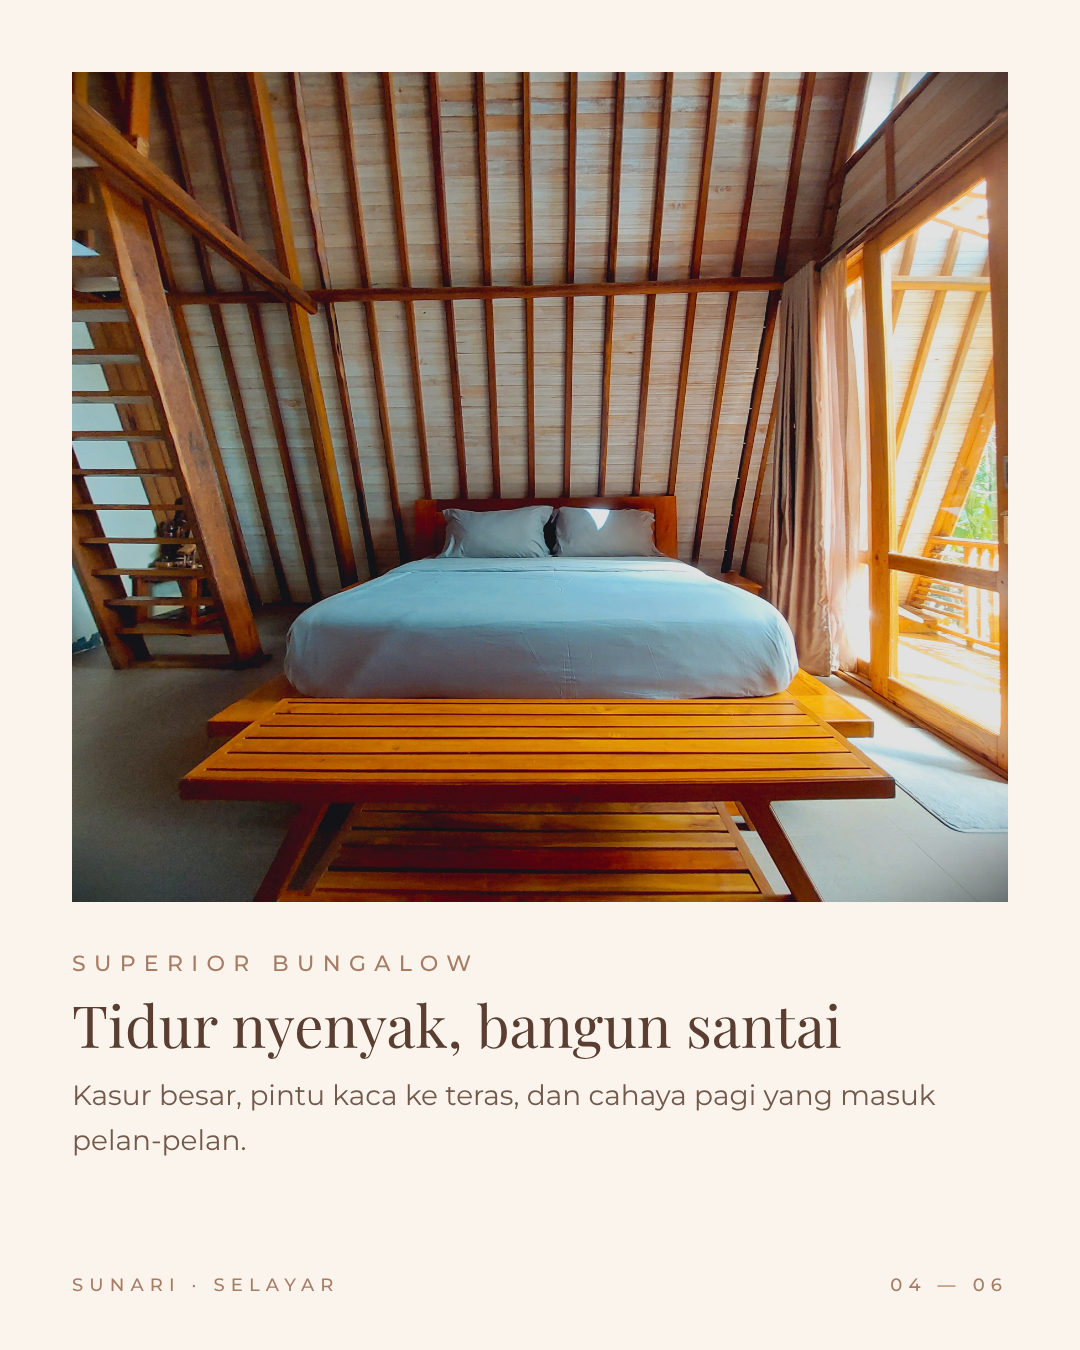
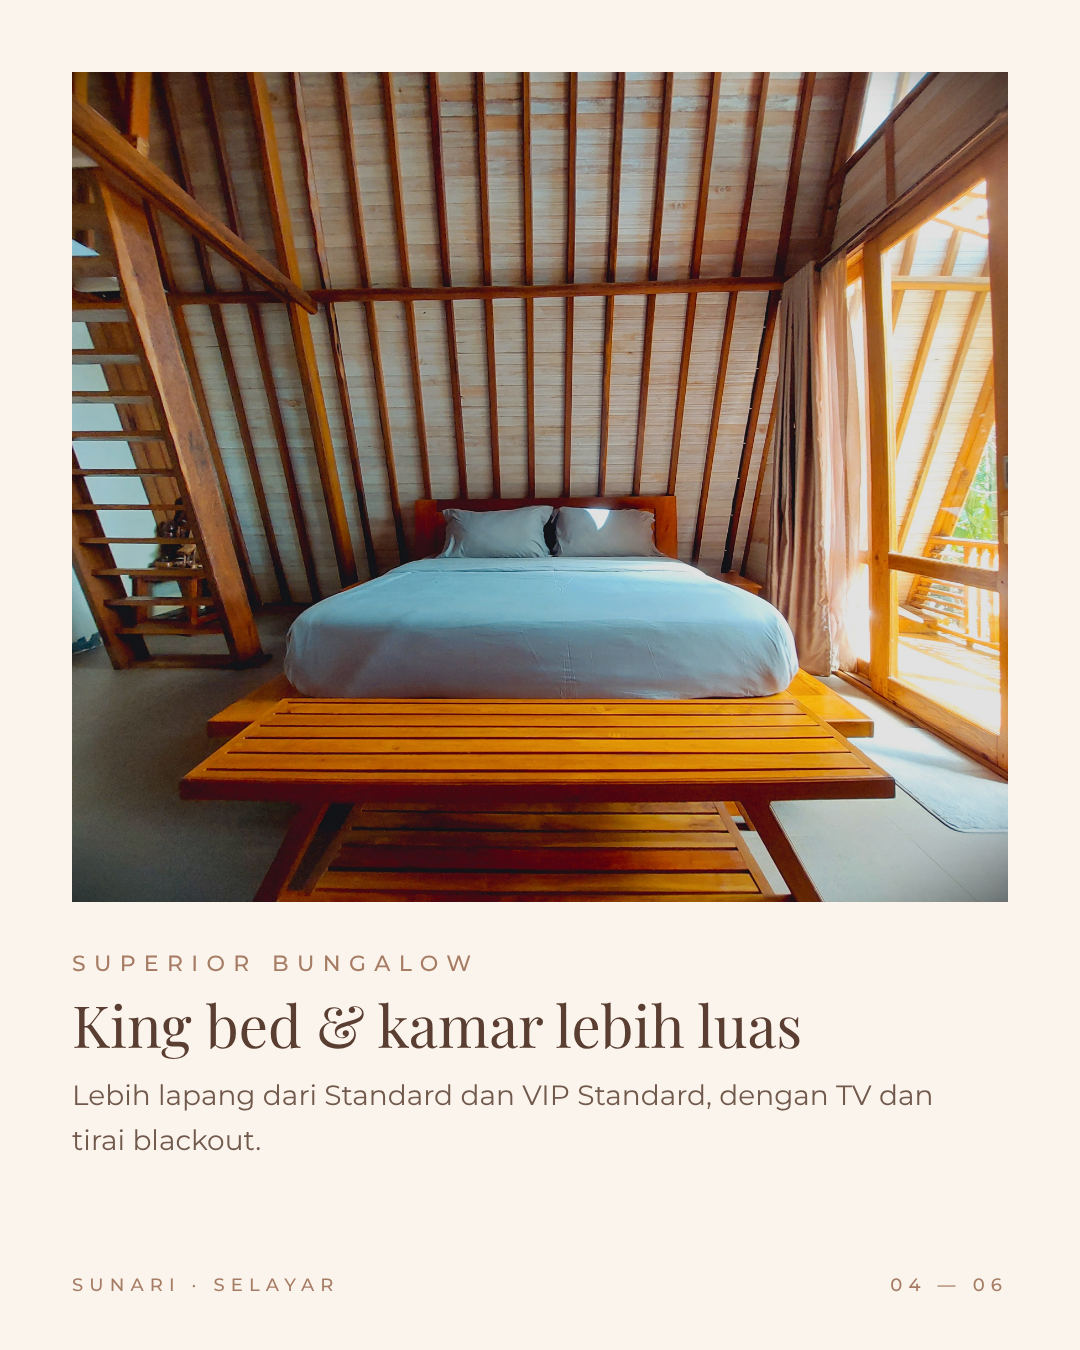
Update Superior Bungalow details (king bed, TV, larger room, breakfast, amenities)
Claude-Session: https://claude.ai/code/session_01AizaiBQtsTmWERPRfEgVV4

Changed region(s): [[0.0611, 0.7467, 0.7944, 0.8711], [0.7944, 0.8089, 0.8556, 0.84]]

diff --git a/social/kit.html b/social/kit.html
@@ -156,7 +156,7 @@ body{background:#ddd6cc;font-family:Montserrat,sans-serif;padding:40px;display:f
 </div>
 <div class="tpl" id="sb-4">
   <img class="ph" src="../assets/photos/superior-bungalow/05-kamar-tempat-tidur.jpg" style="object-position:50% 50%" alt="">
-  <div class="txt"><div class="caps">Superior Bungalow</div><h2>Tidur nyenyak, bangun santai</h2><p>Kasur besar, pintu kaca ke teras, dan cahaya pagi yang masuk pelan-pelan.</p></div>
+  <div class="txt"><div class="caps">Superior Bungalow</div><h2>King bed &amp; kamar lebih luas</h2><p>Lebih lapang dari Standard dan VIP Standard, dengan TV dan tirai blackout.</p></div>
   <div class="foot"><span class="caps">SunaRi · Selayar</span><span class="caps">04 — 06</span></div>
 </div>
 <div class="tpl" id="sb-5">
@@ -167,7 +167,7 @@ body{background:#ddd6cc;font-family:Montserrat,sans-serif;padding:40px;display:f
 <div class="tpl facts" id="sb-6">
   <img class="mark" src="../assets/mark-sunari-driftwood.svg" alt="">
   <div class="head center"><div class="caps">Superior Bungalow</div><h2>Yang kamu <span class="it">dapatkan</span></h2></div>
-  <ul><li>Untuk 2 orang, maks. 3 dengan extra bed</li><li>Bungalow kayu A-frame dengan loteng</li><li>Teras pribadi dengan kursi santai</li><li>Kamar mandi semi-outdoor, rain shower</li><li>AC, TV, perlengkapan kopi &amp; teh</li><li>Wi-Fi &amp; beberapa langkah ke pantai</li></ul>
+  <ul><li>Untuk 2 orang, maks. 3 dengan extra bed</li><li>Termasuk sarapan</li><li>King bed, TV, kamar lebih luas</li><li>Kamar mandi semi-outdoor, rain shower</li><li>AC, Wi-Fi, kopi/teh &amp; pemanas air</li><li>Teras pribadi dengan kursi santai</li></ul>
   <div class="cta"><div class="caps">Info &amp; Reservasi</div><div class="wa"><span>WhatsApp</span> 0821-8903-3044</div></div>
   <div class="foot"><span class="caps">SunaRi · Selayar</span><span class="caps">06 — 06</span></div>
 </div>

diff --git a/social/build_kit.py b/social/build_kit.py
@@ -14,9 +14,9 @@ ROOMS = [
        tagline="Rumah kayu di antara pohon kelapa", cover="02-eksterior-depan.jpg", cover_pos="50% 30%",
        slides=[("03-teras.jpg","50% 50%","Teras kayu pribadi","Tempat terbaik untuk kopi pagi dan obrolan sore, dengan pohon kelapa sebagai pemandangannya."),
                ("04-kamar-loteng.jpg","50% 50%","Atap A-frame & loteng","Langit-langit kayu menjulang dengan loteng di atasnya. Lapang, sejuk, dan hangat."),
-               ("05-kamar-tempat-tidur.jpg","50% 50%","Tidur nyenyak, bangun santai","Kasur besar, pintu kaca ke teras, dan cahaya pagi yang masuk pelan-pelan."),
+               ("05-kamar-tempat-tidur.jpg","50% 50%","King bed & kamar lebih luas","Lebih lapang dari Standard dan VIP Standard, dengan TV dan tirai blackout."),
                ("10-kamar-mandi-taman.jpg","50% 60%","Kamar mandi semi-outdoor","Mandi di bawah rain shower, ditemani taman hijau dan langit terbuka.")],
-       facts=["Untuk 2 orang, maks. 3 dengan extra bed","Bungalow kayu A-frame dengan loteng","Teras pribadi dengan kursi santai","Kamar mandi semi-outdoor, rain shower","AC, TV, perlengkapan kopi & teh","Wi-Fi & beberapa langkah ke pantai"]),
+       facts=["Untuk 2 orang, maks. 3 dengan extra bed","Termasuk sarapan","King bed, TV, kamar lebih luas","Kamar mandi semi-outdoor, rain shower","AC, Wi-Fi, kopi/teh & pemanas air","Teras pribadi dengan kursi santai"]),
   dict(prefix="st", name="Standard Bungalow", photos="standard-bungalow",
        tagline="Pagi menghadap laut Selayar", cover="01-teras-view-laut.jpg", cover_pos="50% 60%",
        slides=[("03-kamar-depan.jpg","50% 60%","Queen bed di rumah kayu","Dinding kayu, atap tinggi, tirai blackout, serta bantal dan selimut tambahan."),

diff --git a/ota/DESKRIPSI_OTA_GOOGLE.md b/ota/DESKRIPSI_OTA_GOOGLE.md
@@ -81,13 +81,13 @@ Paid transfers are available from H. Aroeppala Airport and the ferry port. The r
 ---
 
 ### 3. Superior Bungalow
-**Kapasitas:** 2 dewasa (maks. 3 dengan 1 extra bed) · **Tempat tidur:** 1 double/queen *(sesuaikan)* · **Pemandangan:** taman tropis
+**Kapasitas:** 2 dewasa (maks. 3 dengan 1 extra bed, berbayar) · **Tempat tidur:** 1 king bed · **Pemandangan:** laut atau taman (sesuai unit) · **Lebih luas dari Standard & VIP Standard** · **Termasuk sarapan**
 
-**ID:** Bungalow kayu beratap A-frame di antara pohon kelapa, dengan loteng di bawah langit-langit kayu yang menjulang. Teras kayu pribadi dengan kursi santai cocok untuk kopi pagi dan obrolan sore. Keistimewaannya adalah kamar mandi semi-outdoor dengan rain shower, dikelilingi taman hijau dan langit terbuka. Dilengkapi AC, TV, dan perlengkapan kopi/teh.
+**ID:** Bungalow kayu beratap A-frame di antara pohon kelapa, dengan loteng di bawah langit-langit kayu yang menjulang. Kamarnya lebih luas dibanding Standard dan VIP Standard Bungalow, dilengkapi king bed, TV, AC, Wi-Fi, set kopi/teh dengan pemanas air, meja kerja/rias, tirai blackout, serta bantal dan selimut tambahan. Keistimewaannya adalah kamar mandi semi-outdoor dengan rain shower, dikelilingi taman hijau dan langit terbuka, lengkap dengan perlengkapan mandi dan handuk bersih untuk setiap tamu. Teras kayu pribadi dengan kursi santai menghadap laut atau taman. Sudah termasuk sarapan. Layanan setrika tersedia atas permintaan.
 
-**EN:** A wooden A-frame bungalow nestled among coconut palms, with a loft under the soaring timber ceiling. The private wooden terrace with lounge chairs is perfect for morning coffee and evening chats. The highlight is a semi-outdoor bathroom with rain shower, surrounded by a tropical garden and open sky. Air conditioning, TV and coffee/tea facilities included.
+**EN:** A wooden A-frame bungalow nestled among coconut palms, with a loft under the soaring timber ceiling. More spacious than the Standard and VIP Standard Bungalows, it comes with a king bed, TV, air conditioning, Wi-Fi, coffee/tea set with kettle, work/vanity desk, blackout curtains, and extra pillows and blankets. The highlight is a semi-outdoor bathroom with rain shower, surrounded by a tropical garden and open sky, with full toiletries and fresh towels for every guest. The private wooden terrace with lounge chairs looks out to the sea or garden. Breakfast is included. Ironing available on request.
 
-**Fasilitas:** AC · Wi-Fi · TV · Loteng · Teras pribadi · Kamar mandi semi-outdoor · Rain shower · Kopi/teh · Toilet duduk · Extra bed
+**Fasilitas:** Sarapan · King bed · TV · AC · Wi-Fi · Loteng · Kopi/teh & pemanas air (kettle) · Meja kerja/rias · Tirai blackout · Bantal & selimut tambahan · Setrika (atas permintaan) · Kamar mandi semi-outdoor · Rain shower · Toilet duduk · Perlengkapan mandi · Handuk · Teras/balkon pribadi · Kursi santai · Pemandangan laut atau taman · Extra bed (maks. 1, berbayar)
 
 ---
 
@@ -160,9 +160,9 @@ Tombol: **Hubungi** (nomor WA).
 | Pembatalan, deposit, hewan peliharaan, merokok | *Isi sesuai kebijakan resort* |
 
 ## F. Yang perlu dicek sebelum dipublikasikan
-- [ ] Ukuran tempat tidur Superior & VIP Superior (double/queen/king)
+- [ ] Ukuran tempat tidur VIP Superior (Superior: king bed ✅)
 - [ ] Luas kamar (m²) untuk setiap tipe, sering diminta OTA
-- [ ] Apakah **sarapan, perlengkapan mandi, handuk, setrika, tirai blackout** juga berlaku untuk Superior dan VIP Superior? (sudah dikonfirmasi: Family Superior, Standard, VIP Standard)
+- [ ] Apakah **sarapan, perlengkapan mandi, handuk, setrika, tirai blackout** juga berlaku untuk VIP Superior? (sudah dikonfirmasi: Family Superior, Standard, VIP Standard, Superior)
 - [ ] VIP Standard: berapa unit yang menghadap laut/senja dan berapa yang menghadap taman?
 - [ ] Air panas, parkir, jam resepsionis
 - [ ] Kebijakan pembatalan dan deposit

diff --git a/brand/BRAND_GUIDE.md b/brand/BRAND_GUIDE.md
@@ -190,9 +190,11 @@ Acuan gaya: `brand/style-reference.jpg` (hanya gaya visual, bukan isi/merek). Pe
 ## 6. Produk & Pengalaman Signature (usulan)
 
 **Tipe kamar**
-- **Superior Bungalow** *(foto asli: `assets/photos/superior-bungalow/`)*: bungalow kayu beratap A-frame
-  dengan loteng, teras kayu pribadi, kamar mandi semi-outdoor dengan taman & rain shower, AC, TV,
-  perlengkapan kopi/teh. Kata kunci promosi: *rumah kayu di antara pohon kelapa*.
+- **Superior Bungalow** *(foto asli: `assets/photos/superior-bungalow/`)*: bungalow kayu beratap A-frame dengan loteng,
+  **lebih luas dari Standard & VIP Standard**. **Kapasitas 2 orang, maks. 3 dengan 1 extra bed (berbayar).** **King bed**, **TV**, termasuk **sarapan**,
+  AC, Wi-Fi, set kopi/teh + pemanas air, meja kerja/rias, setrika atas permintaan, perlengkapan mandi, handuk, bantal & selimut tambahan,
+  tirai blackout. Kamar mandi semi-outdoor dengan taman & rain shower. Teras kayu pribadi dengan kursi santai, pemandangan laut atau taman.
+  Kata kunci promosi: *rumah kayu di antara pohon kelapa*.
 - **Standard Bungalow** *(foto asli: `assets/photos/standard-bungalow/`)*: bungalow kayu dengan atap tinggi.
   **Kapasitas 2 orang, maks. 3 dengan 1 extra bed (berbayar).** **Queen bed**, termasuk **sarapan**, AC, Wi-Fi, set kopi/teh + pemanas air,
   meja kerja/rias, setrika atas permintaan, perlengkapan mandi, handuk, bantal & selimut tambahan, tirai blackout.

diff --git a/social/INSTAGRAM_BULAN_1.md b/social/INSTAGRAM_BULAN_1.md
@@ -123,8 +123,8 @@ Simpan akun ini supaya tidak ketinggalan.
 Room tour: Superior Bungalow. 🌴
 
 Rumah kayu beratap A-frame di antara pohon kelapa,
-lengkap dengan loteng, teras pribadi,
-dan kamar mandi semi-outdoor yang dikelilingi taman.
+lengkap dengan loteng, king bed, TV, teras pribadi,
+dan kamar mandi semi-outdoor yang dikelilingi taman. Sudah termasuk sarapan.
 
 Geser sampai akhir untuk melihat fasilitasnya,
 lalu ceritakan di komentar: bagian mana yang paling kamu suka?
